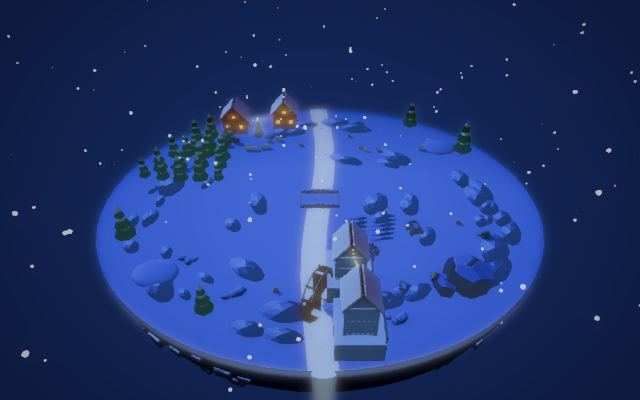
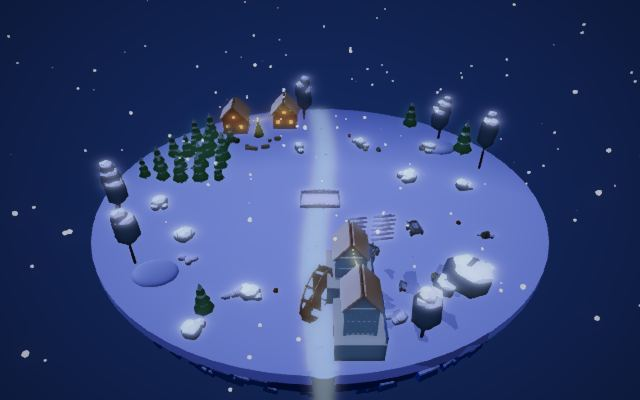
loop(573): maps_1+maps_2 9/10 gaps approved
Farmer Snow done (CONFIRM passed a); maps_1 closed (regression 12/12, 17 stages re-judged PASS).

diff --git a/loop/STATE.md b/loop/STATE.md
@@ -1,5 +1,5 @@
 # Loop state (v10: maps then stages; two batch audits merged; up to 9 structural/rebuild gaps + 1 eligible polish; fresh CONFIRM before done)
-Iteration: 572   Batch: maps_1+maps_2   Consecutive empty: 0   Done: 6/99   Parked: 0
+Iteration: 573   Batch: maps_2   Consecutive empty: 0   Done: 7/99   Parked: 0
 Batches, in order: maps_1, maps_2, maps_3, maps_4, stages_introduction, stages_adventure, stages_challenge, stages_dynasty, stages_renaissance, stages_pirate, stages_spooky, stages_simulation, stages_wild_west, stages_legacy, stages_fantasy_good, stages_fantasy_evil
 <!-- Item file template, loop/items/<id>.md (map: map.<id>; stage: <campaign>.<level>):
 # <id>
@@ -16,8 +16,8 @@ c ...
 Marks below: one per criterion a b c (+ pass, - fail, ? unscored); map a look, b layout, c play; stage a army, b formation, c battle. -->
 
 ## Scoreboard (a b c as + pass, - fail, ? unscored; status q queued, o open, D done, p parked)
-maps_1: tribal_1 +++ D | tribal_2 +++ D | tribal_sandbox +++ D | farmer_1 +++ D | farmer_2 +++ D | farmer_snow -++ o
-maps_2: medieval_1 +++ D | medieval_2 -++ o | ancient_1 --+ o | ancient_2 --+ o | ancient_sandbox +-+ o | viking --+ o | viking_sandbox -++ o
+maps_1: tribal_1 +++ D | tribal_2 +++ D | tribal_sandbox +++ D | farmer_1 +++ D | farmer_2 +++ D | farmer_snow +++ D
+maps_2: medieval_1 +++ D | medieval_2 -++ o | ancient_1 --+ o | ancient_2 +-+ o | ancient_sandbox -++ o | viking +-+ o | viking_sandbox -++ o
 maps_3: dynasty ??? q | renaissance ??? q | pirate ??? q | spooky_1 ??? q | spooky_2 ??? q | wild_west ??? q | legacy ??? q
 maps_4: fantasy_good ??? q | fantasy_evil ??? q | simulation ??? q | bridge ??? q | hill ??? q | corridor ??? q | defend_the_castle ??? q | high_ground ??? q | low_ground ??? q
 stages_introduction: clubs ??? q | army ??? q | hay_and_pitchforks ??? q | basic_formation ??? q | ice_archers_only_almost ??? q | longships ??? q
@@ -33,54 +33,52 @@ stages_legacy: siege ??? q | a_tank ??? q | the_war ??? q | thor_s_battle ??? q
 stages_fantasy_good: colossal_spike ??? q | royal_archers ??? q | clash_of_warriors ??? q | chaotic_cavalry ??? q | vicious_terror ??? q | fortified_formation ??? q
 stages_fantasy_evil: encircling_tribe ??? q | raze_the_homestead ??? q | farmer_uprising_evil ??? q | storm_the_fortress ??? q | blasted_skirmish ??? q | dismantle_the_spears ??? q
 
-## Focus (iter 572: maps_1+maps_2, 9 [S] + 1 [R]; BASE cf80e6fe)
-- [R] map.farmer_snow.a blockers 1 and 3 rock caps and mill-bank shade (2cf0d365) APPROVE, struck a1, a3 (a PASS; CONFIRM failed a)
-- [S] map.medieval_2.a blocker 3 multi-depth castle-foot oaks (afbebfe0) APPROVE, struck a3 (a PASS; CONFIRM failed a, passed b)
-- [S] map.viking_sandbox.a blocker 3 grounded ledge caps (17023fc0) APPROVE, struck a3 (a PASS; CONFIRM failed a)
-- [S] map.ancient_1.a blocker 6 lighthouse (b49c9e06) APPROVE, struck a6
-- [S] map.ancient_1.b blocker 2 two streets (86b2096b) APPROVE, struck b2 (b PASS; CONFIRM failed b)
-- [S] map.ancient_1.a blocker 4 pebbled brown underside (650af264) APPROVE, struck a4 (a PASS; CONFIRM failed a)
-- [S] map.ancient_2.a blocker 3 beige ring wall (ed751363) APPROVE, struck a3
-- [S] map.ancient_sandbox.b blocker 3 spiral mountain (72b505d7) APPROVE, struck b3 and a3
-- [S] map.viking.a blocker 3 cyan haze and snowfall (30beeb4b+b35b008f) APPROVE, struck a3
-- [S] map.ancient_sandbox.a blocker 2 hamlets and cypresses (686f2456) APPROVE, struck a2 (a PASS, pending CONFIRM)
-- 10/10, 12 struck
+## Focus (iter 573: maps_1+maps_2, 9 [S] + 1 [R]; BASE 509a4b40 after evidence 509a4b40 (ancient_1 battle pose))
+- [R] map.farmer_snow.a blockers 1-3 lavender snow, corner trees, slate band (94ecffc7+cd93dfb2) APPROVE, struck a1-a3 (a PASS; CONFIRM passed: D)
+- [S] map.viking.b blocker 2 raised snowbanks (264fb953) APPROVE, no strike
+- [S] map.viking.a blocker 5 ice underside (c44dc74a) APPROVE, struck a5
+- [S] map.viking.a blocker 6 frozen waterfall (f74d311d) APPROVE, struck a6 (a PASS; CONFIRM passed a, b)
+- [S] map.ancient_sandbox.b blocker 1 outer shelves and headlands (d11426f4) APPROVE, struck b1
+- [S] map.ancient_sandbox.b blocker 4 offshore islets (b82dd7b7) APPROVE, struck b4 (b PASS; CONFIRM passed b, failed a)
+- [S] map.ancient_2.b blocker 1 world-space remap (f5374621) dropped: shelf unchanged, reverted 8231cf32
+- [S] map.ancient_2.a blocker 4 earth drum (cc91f4d4) APPROVE, struck a4
+- [S] map.ancient_2.a blocker 5 gate pavilions (0f5ada56) APPROVE, struck a5 (a PASS, pending CONFIRM)
+- [S] map.ancient_1.a blocker 1 clear blue sky (61adfc2c) APPROVE, struck a1
+- 9/10, 10 struck
 
 ## Last verdicts (critic header lines verbatim)
-GAP: [R] map.farmer_snow (2cf0d365)
+GAP: [R] map.farmer_snow (94ecffc7 + cd93dfb2)
 VERDICT: APPROVE
 CRITERION: map.farmer_snow.a PASS   (previous: FAIL)
-GAP: [S] map.medieval_2 (afbebfe0)
+GAP: [S] map.viking (264fb953)
 VERDICT: APPROVE
-CRITERION: map.medieval_2.a PASS   (previous: FAIL)
-GAP: [S] map.viking_sandbox (17023fc0)
-VERDICT: APPROVE
-CRITERION: map.viking_sandbox.a PASS   (previous: FAIL)
-GAP: [S] map.ancient_1 (b49c9e06)
-VERDICT: APPROVE
-CRITERION: map.ancient_1.a FAIL   (previous: FAIL)
-GAP: [S] map.ancient_1 (86b2096b)
-VERDICT: APPROVE
-CRITERION: map.ancient_1.b PASS   (previous: FAIL)
-GAP: [S] map.ancient_1 (650af264)
-VERDICT: APPROVE
-CRITERION: map.ancient_1.a PASS   (previous: FAIL)
-GAP: [S] map.ancient_2 (ed751363)
-VERDICT: APPROVE
-CRITERION: map.ancient_2.a FAIL   (previous: FAIL)
-GAP: [S] map.ancient_sandbox (72b505d7)
-VERDICT: APPROVE
-CRITERION: map.ancient_sandbox.b FAIL   (previous: FAIL)
-GAP: [S] map.viking (30beeb4b+b35b008f)
+CRITERION: map.viking.b FAIL   (previous: FAIL)
+GAP: [S] map.viking (c44dc74a)
 VERDICT: APPROVE
 CRITERION: map.viking.a FAIL   (previous: FAIL)
-GAP: [S] map.ancient_sandbox (686f2456)
+GAP: [S] map.viking (f74d311d)
 VERDICT: APPROVE
-CRITERION: map.ancient_sandbox.a PASS   (previous: FAIL)
+CRITERION: map.viking.a PASS   (previous: FAIL)
+GAP: [S] map.ancient_sandbox (d11426f4)
+VERDICT: APPROVE
+CRITERION: map.ancient_sandbox.b FAIL   (previous: FAIL)
+GAP: [S] map.ancient_sandbox (b82dd7b7)
+VERDICT: APPROVE
+CRITERION: map.ancient_sandbox.b PASS   (previous: FAIL)
+GAP: [S] map.ancient_2 (cc91f4d4)
+VERDICT: APPROVE
+CRITERION: map.ancient_2.a FAIL   (previous: FAIL)
+GAP: [S] map.ancient_2 (0f5ada56)
+VERDICT: APPROVE
+CRITERION: map.ancient_2.a PASS   (previous: FAIL)
+GAP: [S] map.ancient_1 (61adfc2c)
+VERDICT: APPROVE
+CRITERION: map.ancient_1.a FAIL   (previous: FAIL)
 REGRESSIONS: none
 
 ## Notes for next iteration (max 5 lines)
-- 572 capture: 82 shots, zero page errors; all 43 script checks passed across seven maps and 18 stages. Critic approved 10/10.
-- Early CONFIRMs failed a on Farmer Snow, Medieval 2 and Viking Sandbox (their lists are now the blockers): all three are plateau. One [R] per iteration, oldest first: Farmer Snow, then Viking Sandbox, then Medieval 2.
-- Ancient 1 CONFIRM 572 failed a and b (6 + 5 blockers). Evidence first: its battle camera now sits over the middle band roofs (b3); re-aim that pose onto a street or plaza before picking on b.
-- Ancient Sandbox a PASS awaits CONFIRM; its b needs the larger irregular outline and islets. The pale rectangle in stage_fantasy_evil.raze_the_homestead_field.png remains an open note from 562.
+- 573: 82+ shots, zero page errors, all script checks pass; maps_1 checkpoint: regression 12/12 GREEN, all 17 maps_1 stages re-judged a+c PASS. Farmer Snow done (CONFIRM passed a); maps_1 closed.
+- [R] queue (plateau, oldest first): Viking Sandbox a, then Medieval 2 a. Viking b needs its bank to read from the top shot (shaded face, shore rocks).
+- Ancient 2: find which mesh is the green apron past the wall with a probe before retrying b1 (the 573 world-space remap of ground/islandShelf changed nothing). Its a PASS awaits CONFIRM.
+- Ancient 1 evidence first: the battle shot (509a4b40) looks down the south street but misses the skirmish armies (zones x +-40): re-aim it onto an army on a street before picking on b.
+- Ancient Sandbox CONFIRM 573 failed a (beige sky, lawn too saturated, front boulder row, cloud over island, sea too saturated): that list is now a's blockers.

diff --git a/loop/LEDGER.md b/loop/LEDGER.md
@@ -3,15 +3,6 @@
 Rows: `file:identifier | value | last iter | verdict | earlier values`. P: no approved reversal within 20 iterations; two failed polish attempts spend a row. S/R replace mechanisms. The unit phase's ledger is `loop/archive/v4/LEDGER.md`.
 
 ## Structural attempts (iter | sha | item.criterion | verdict)
-567 | db48feef | map.tribal_sandbox.b | approved
-567 | 03d00d50 | map.tribal_sandbox.a | approved
-567 | 96d8ba1d | map.tribal_sandbox.a | approved
-567 | d32c689e+cd4783d7 | map.farmer_snow.a | approved
-567 | 0a2b80e6+254e73fa | map.medieval_1.a | approved
-567 | 81b97c93 | map.ancient_1.a | approved
-567 | e2665129 | map.viking_sandbox.a | approved
-567 | 98b4b52f | map.ancient_2.b | approved
-567 | b64c0a48 | map.medieval_2.a | approved
 568 | 45084eee | map.tribal_sandbox.a | approved, struck a1
 568 | ee8ea992 | map.tribal_sandbox.a | approved, struck a2
 568 | d8ff6642 | map.tribal_sandbox.a | approved, struck a3
@@ -60,6 +51,16 @@ Rows: `file:identifier | value | last iter | verdict | earlier values`. P: no ap
 572 | 72b505d7 | map.ancient_sandbox.b | approve, struck b3 and a3
 572 | 30beeb4b+b35b008f | map.viking.a | approve, struck a3
 572 | 686f2456 | map.ancient_sandbox.a | approve, struck a2
+573 | 94ecffc7+cd93dfb2 [R] | map.farmer_snow.a | approve, struck a1-a3 (CONFIRM passed: D)
+573 | 264fb953 | map.viking.b | approve, no strike
+573 | c44dc74a | map.viking.a | approve, struck a5
+573 | f74d311d | map.viking.a | approve, struck a6 (CONFIRM passed a)
+573 | d11426f4 | map.ancient_sandbox.b | approve, struck b1
+573 | b82dd7b7 | map.ancient_sandbox.b | approve, struck b4 (CONFIRM passed b, failed a)
+573 | f5374621 | map.ancient_2.b | dropped (no visible change; reverted)
+573 | cc91f4d4 | map.ancient_2.a | approve, struck a4
+573 | 0f5ada56 | map.ancient_2.a | approve, struck a5
+573 | 61adfc2c | map.ancient_1.a | approve, struck a1
 
 ## Tuned values
 web/src/map/tabs/farmer_2.ts:wheatField stalk height, step | 0.65-0.8 m, 0.75 m | 564 | approved | 0.5-0.7 m, 0.9 m; 1.0-1.3 m
@@ -103,7 +104,7 @@ web/src/map/tabs/medieval_2.ts:castleFront silhouette | stepped curtain runs bet
 web/src/map/tabs/medieval_2.ts:castleOaks groves | 17 oaks with scale 0.7-1.5, 3-7 lobes, wall-foot band z 17-21 | 571 | approved, blocker 3 stands | 11 equal 4-lobe oaks
 web/src/map/tabs/medieval_1.ts:rightBankBreak | west ring retained, only outer corner groups remain on east | 569 | approved | tree ring on both banks
 web/src/map/tabs/medieval_1.ts:gnarledOaks profile | kinked tapering trunks with four irregular crown lobes | 569 | approved | inherited trunks and crowns
-web/src/map/tabs/farmer_snow.ts:SNOW and SNOW_SHADE | (0.57,0.68,0.96) and (0.035,0.065,0.17) | 570 | approved, caps still dim | (0.8,0.85,0.96) and (0.3,0.34,0.45)
+web/src/map/tabs/farmer_snow.ts:SNOW and SNOW_SHADE (R) | warm diffuse (0.72,0.66,0.58), self-light (0.23,0.26,0.47), field+lip out of glow; band (0.085,0.115,0.29), 150 stones; 6 corner trees | 573 | approved, D | (0.57,0.68,0.96)/(0.035,0.065,0.17) cobalt; (0.8,0.85,0.96)/(0.3,0.34,0.45)
 web/src/map/tabs/farmer_snow.ts:nightSky hemi and dir | intensities 0.22 and 0.78, diagonal directional light (0.62,-0.55,-0.48) | 570 | approved, localized shadows still too narrow | 0.35 and 0.55, inherited direction
 web/src/map/tabs/medieval_1.ts:landfallRamp | 3.25 m wide, (-7.4,-0.18,-18) to (-1.9,-5.8,-4) | 570 | approved | absent
 web/src/map/tabs/medieval_1.ts:meadowDressing | flattened ico clumps 1.1-2 m, two greens (0.5,0.74,0.22)/(0.33,0.56,0.16), 0.8 m grid in swathes, orange heads | 571 | approved, a PASS | two crossed leaf cards per tuft, 0.95 m grid; flat grass
@@ -126,4 +127,8 @@ web/src/map/tabs/viking.ts:winterHaze | clear (0.58,0.86,0.91), 320 flakes, mist
 web/src/map/tabs/ancient_1.ts:BANDS and STREETS | three bands x -24..24 (z -19/0/19, depth 14/16/14), streets z +-10 4 m wide | 572 | approved (CONFIRM failed b: reads as fused slab) | 2x3 blocks at x +-15
 web/src/map/tabs/ancient_1.ts:lighthouse and pebbledUnderside | 14 m octagonal tower at (-42,46); two slabs 7 m + 6 m inset, pebbles every 3.5 m | 572 | approved | absent; 11 m box slab
 web/src/map/tabs/ancient_2.ts:ringWall | 72 segments r 49.6, 1.5 m high, beige (0.78,0.68,0.5), 6 cypress clusters; ring trees removed | 572 | approved, struck a3 | autumn tree ring
+web/src/map/tabs/viking.ts:BANK, UNDER, FALL | bank 2.4 m smoothstep over 5 m past lake edge (height field); ice bowl to -26 m; crag+cascade at (0,44) | 573 | approved; bank unseen from top | absent
+web/src/map/tabs/ancient_sandbox.ts:SHELVES and ISLETS | 10 lobes 9-25 m out, tops -2.5..-7; 5 islets 75-150 m out | 573 | approved, b PASS | absent
+web/src/map/tabs/ancient_2.ts:earthDrum and PAVILIONS | drum r 51 to -17 m, 110 stones; pavilions at 188/250/320 deg | 573 | approved, a PASS | navy slab; absent
+web/src/map/tabs/ancient_1.ts:clearSky | clear (0.3,0.6,0.88), fog (0.66,0.8,0.93) | 573 | approved | inherited beige
 web/src/map/tabs/ancient_sandbox.ts:spiralMountain and edgeVillage | 32 m tower at (0,41) r 9-4.5, 2.5-turn ledge; 5 hamlets, 8 rim cypress clusters, ring trees removed | 572 | approved, struck a2, a3, b3 | absent; autumn ring

diff --git a/loop/items/map.ancient_1.md b/loop/items/map.ancient_1.md
@@ -1,19 +1,20 @@
 # map.ancient_1
 Status: open   Audited: 562 (AUDIT x2), 572 (CONFIRM: passed none; failed a, b)   Done: -
 ## Verdicts
-a FAIL (0 since 572): 1. beige-khaki sky and haze in map_ancient_1_island — TABS: pale clear blue sky with white clouds (ref: reference/maps/greek_ancient_1.png) 2. pale lavender-blue tinted street ground in map_ancient_1_top — TABS: mid-grey paving split by white flagstone lines (ref: reference/maps/wiki/ancient_1.png) 3. town drawn as one fused white slab with domes on top in map_ancient_1_top — TABS: separate whitewashed houses with flat roofs, stairs and blue doors/shutters (ref: reference/maps/wiki/ancient_1.png) 4. thin blue rail edging the field in map_ancient_1_island — TABS: low white parapet wall with blue tile coping (ref: reference/maps/wiki/ancient_1.png) 5. lone grass tufts at the field corners in map_ancient_1_top — TABS: cypress clusters in raised white planters along the wall (ref: reference/maps/wiki/ancient_1.png) 6. bare streets and rooftops in map_ancient_1_ground — TABS: pots, barrels, pink-blossom and olive shrubs dressing roofs and lanes (ref: reference/maps/wiki/ancient_1.png)
+a FAIL (573: struck 1): 2. pale lavender-blue tinted street ground in map_ancient_1_top — TABS: mid-grey paving split by white flagstone lines (ref: reference/maps/wiki/ancient_1.png) 3. town drawn as one fused white slab with domes on top in map_ancient_1_top — TABS: separate whitewashed houses with flat roofs, stairs and blue doors/shutters (ref: reference/maps/wiki/ancient_1.png) 4. thin blue rail edging the field in map_ancient_1_island — TABS: low white parapet wall with blue tile coping (ref: reference/maps/wiki/ancient_1.png) 5. lone grass tufts at the field corners in map_ancient_1_top — TABS: cypress clusters in raised white planters along the wall (ref: reference/maps/wiki/ancient_1.png) 6. bare streets and rooftops in map_ancient_1_ground — TABS: pots, barrels, pink-blossom and olive shrubs dressing roofs and lanes (ref: reference/maps/wiki/ancient_1.png)
 b FAIL (0 since 572): 1. building block confined to the centre third with wide empty plazas on both ends in map_ancient_1_top — TABS: houses fill the length of the rectangle in long rows (ref: reference/maps/wiki/ancient_1.png) 2. no narrow lengthwise streets between the building rows in map_ancient_1_top — TABS: two 3-4-unit-wide streets link the left and right halves (ref: loop/cards/maps/ancient_1.md Overview) 3. low camera sees only rooftops, no street to fight on, in map_ancient_1_battle — TABS: armies stand on grey paved streets between house fronts (ref: reference/stages/dynasty.zeus_and_other_folks.png) 4. harbour water only a small pond on a detached rock slab behind the field in map_ancient_1_top — TABS: blue bay cutting into one corner of the island beside the statue headland (ref: reference/maps/wiki/ancient_1.png) 5. rooftop stairs barely visible as one thin ladder in map_ancient_1_top — TABS: broad stair flights up the building sides onto the roofs (ref: reference/stages/introduction.basic_formation.png)
-c PASS (572 judge)
+c PASS (573 judge)
 
 ## Ranked gaps
-1. [S] a — sky — blocker 1: clear pale blue sky and fog, clouds kept — ref: reference/maps/greek_ancient_1.png — ours: map_ancient_1_island.png
-2. [S] b — houses fill the length — blocker 1: bands toward the side walls, zones (x >= 29) clear — ref: reference/maps/wiki/ancient_1.png — ours: map_ancient_1_top.png
+1. [S] a — fused town slab — blocker 3: separate whitewashed houses with gaps, flat roofs, blue doors and shutters, stair flights — ref: reference/maps/wiki/ancient_1.png — ours: map_ancient_1_top.png
+2. [S] b — houses fill the length — blocker 1: house rows run the full length, zones (x >= 29) clear — ref: reference/maps/wiki/ancient_1.png — ours: map_ancient_1_top.png
+3. [S] a — paving — blocker 2: mid-grey paving, white flagstone lines — ours: map_ancient_1_top.png
 
 ## Attempts (iter | gap | criterion | verdict)
-566-571 | [S] slab, streets, arch, domed houses, wall, planters, bay, statue | a, b | 5 APPROVE
-572 | [S] lighthouse (b49c9e06); streets (86b2096b); pebbled underside (650af264) | a, b | 3 APPROVE struck a6, b2, a4; CONFIRM failed a, b
+566-572 | [S] slab, streets, houses, wall, planters, bay, statue, lighthouse, underside | a, b | 8 APPROVE; CONFIRM 572 failed a, b
+573 | [S] clear blue sky and haze (61adfc2c) | a | APPROVE, struck a1
 ## Rejected (last 4)
 
 ## Notes (max 3 lines)
 - Stages: introduction.basic_formation, adventure.final_destination_wheelbarrow, dynasty.zeus_and_other_folks, fantasy_evil.blasted_skirmish (enemies x >= 29).
-- Evidence first: the battle camera sits over middle-band roofs since 572 (b3): re-aim it onto a street or plaza.
+- Evidence 573: battle shot looks down the south street but misses the armies (zones x +-40, z 0); b3 stands. Re-aim onto an army.

diff --git a/loop/items/map.ancient_sandbox.md b/loop/items/map.ancient_sandbox.md
@@ -1,25 +1,23 @@
 # map.ancient_sandbox
-Status: open   Audited: 562 (AUDIT x2)   Done: -
+Status: open   Audited: 562 (AUDIT x2), 573 (CONFIRM: passed b; failed a)   Done: -
 ## Verdicts
-a PASS (572: struck 2, 3; pending CONFIRM)
-b FAIL (572: struck 3): 1. Island outline in map_ancient_sandbox_top is a small rounded rectangle — TABS: very large irregular island with cliff terraces (ref: reference/maps/greek_ancient_sandbox.png) 4. Offshore islets absent in map_ancient_sandbox_island — TABS: small islands in the distance (ref: card Overview)
-c PASS (572 judge)
+a FAIL (0 since 573; CONFIRM failed 1x): 1. beige-khaki overcast sky filling the top of map_ancient_sandbox_ground.png — TABS: bright mid-blue sky with white puffy clouds (ref: reference/maps/greek_ancient_sandbox.png) 2. saturated mid-green lawn across map_ancient_sandbox_ground.png — TABS: yellow-olive green grass (ref: reference/maps/wiki/ancient_sandbox.png) 3. row of dark brown boulders lining the front edge of the field in map_ancient_sandbox_island.png — TABS: the front edge is open grass with pale sandstone rocks, ruins and steps (ref: reference/maps/greek_ancient_sandbox.png) 4. large white cloud mass covering the lower right of the island in map_ancient_sandbox_island.png — TABS: clouds stay in the sky and the island and its cliffs are unobstructed (ref: reference/maps/greek_ancient_sandbox.png) 5. flat saturated royal-blue sea with an orange glowing islet on the horizon in map_ancient_sandbox_ground.png — TABS: pale hazy blue-grey sea fading into mist, with muted distant islets (ref: reference/maps/greek_ancient_sandbox.png)
+b PASS (573: struck 1, 4; CONFIRM 573)
+c PASS (573 judge)
 
 ## Ranked gaps
-1. [S] b — outline — blocker 1: very large irregular island outline with stepped cliff terraces at the edges — ref: reference/maps/greek_ancient_sandbox.png — ours: map_ancient_sandbox_top.png
-2. [S] b — islets — blocker 4: small offshore rock islets with cypresses in the sea around the island — ref: loop/cards/maps/ancient_sandbox.md (Overview) — ours: map_ancient_sandbox_island.png
+1. [S] a — sky — blocker 1: clear mid-blue sky and pale haze (as ancient_1's clearSky) — ref: reference/maps/greek_ancient_sandbox.png — ours: map_ancient_sandbox_ground.png
+2. [S] a — front boulder row — blocker 3: inherited dark boulder chain on the front rim replaced by pale sandstone rocks and steps — ref: reference/maps/greek_ancient_sandbox.png — ours: map_ancient_sandbox_island.png
+3. [S] a — sea and islets — blocker 5: hazy blue-grey sea fading to mist, islets darker with green tops — ref: reference/maps/greek_ancient_sandbox.png — ours: map_ancient_sandbox_ground.png
 
 ## Attempts (iter | gap | criterion | verdict)
-563-565 | [S] own builder: terracotta cliffs, sea, base junk and field dressing removed | a, b | 4 APPROVE struck a4, a5, b5
-566 | [S] green meadow with brown clay paths (9358dcce) | a1 | APPROVE struck a1
-570 | [S] stepped rear temple hills (c8566daa) | b | APPROVE, struck b2
-571 | [S] broken columns, fallen drums, ruined gateways (8699ce12) | a | APPROVE, struck a6
-572 | [S] spiral mountain on the north centreline (72b505d7) | b | APPROVE, struck b3 and a3
-572 | [S] whitewashed hamlets, blue-tiled walls, cypresses replacing the autumn ring (686f2456) | a | APPROVE, struck a2 (a PASS)
+563-566 | [S] own builder: terracotta cliffs, sea, junk removed, meadow, clay paths | a, b | 5 APPROVE struck a1, a4, a5, b5
+570-572 | [S] temple hills, ruins, spiral mountain, hamlets and cypresses | a, b | 4 APPROVE struck a2, a3, a6, b2, b3
+573 | [S] outer green shelves and headlands (d11426f4); offshore islets (b82dd7b7) | b | 2 APPROVE, struck b1, b4 (b PASS); CONFIRM passed b, failed a
 
 ## Rejected (last 4)
 
 ## Notes (max 3 lines)
 - No stages fought on it. Base is campaign.challenge (shared): dress it in tabs/ancient_sandbox.ts only.
-- Critic 572: a dark brown boulder row along the whole front rim (inherited; TABS pale rocks); houses bare cubes; spiral tower too smooth.
-- Critic 571: ruin pieces slender (TABS chunky on open grass). Critic 564: beige sky jars over the blue sea.
+- Critic 573: islets bright orange pots with little green; field inside still a rounded rectangle with an orange rim line.
+- Critic 572: houses bare cubes; spiral tower too smooth. Critic 571: ruin pieces slender.

diff --git a/loop/items/map.ancient_2.md b/loop/items/map.ancient_2.md
@@ -1,25 +1,24 @@
 # map.ancient_2
 Status: open   Audited: 562 (AUDIT x2)   Done: -
 ## Verdicts
-a FAIL (572: struck 3): 4. Island underside in map_ancient_2_island is a navy slab with stalactites — TABS: round brown earth drum set with grey stones (ref: reference/maps/greek_ancient_2.png) 5. Small beige gate pavilions with cypresses at the wall absent in map_ancient_2_top — TABS: pavilions at left, front and right (ref: reference/maps/wiki/ancient_2.png)
+a PASS (573: struck 4, 5; pending CONFIRM)
 b FAIL (567: struck 3): 1. Island outline in map_ancient_2_top is a rounded rectangle — TABS: circular disc (ref: reference/maps/wiki/ancient_2.png) 4. Front gate pavilion on the centre line absent in map_ancient_2_island — TABS: columned gate at the front wall (ref: reference/maps/greek_ancient_2.png)
-c PASS (572 judge)
+c PASS (573 judge)
 
 ## Ranked gaps
-1. [S] a — underside — blocker 4: round brown earth drum set with grey stones (as ancient_1's pebbledUnderside) replacing the navy slab and stalactites — ref: reference/maps/greek_ancient_2.png — ours: map_ancient_2_island.png
-2. [S] a — gate pavilions — blocker 5: three small beige columned pavilions with cypresses set into the ring wall at left, front and right — ref: reference/maps/wiki/ancient_2.png — ours: map_ancient_2_top.png
-3. [S] b — outline — blocker 1: trim the island top and slab to the 51 m circle so the wall stands on the edge and no green shelf projects — ref: reference/maps/wiki/ancient_2.png — ours: map_ancient_2_top.png
+1. [S] b — green apron past the wall — blocker 1: grass top and slabs trimmed to the 51 m wall circle (find the mesh that projects first; the 573 world-space remap of ground/islandShelf changed nothing) — ref: reference/maps/wiki/ancient_2.png — ours: map_ancient_2_top.png
+2. [S] b — open front gate — blocker 4: open columned propylon at the 250-degree path end, the path running through it — ref: reference/maps/greek_ancient_2.png — ours: map_ancient_2_island.png
 
 ## Attempts (iter | gap | criterion | verdict)
-565 | [S] own builder; terraces, temples, stair, statues (b364ac2a) | a2 | APPROVE struck a2, b2
-566 | [S] clear inherited field obstacles and pits (13fa8e2a) | b5 | APPROVE struck b5
-567 | [S] crossing beige field paths (98b4b52f) | b3 | APPROVE struck b3
+565-567 | [S] own builder, temples, stair, statues; field cleared; crossing paths | a, b | 3 APPROVE struck a2, b2, b3, b5
 570 | [S] circular temple island outline (18a7b03b) | b | APPROVE
 571 | [S] green lawn with clumps and pink-violet flower drifts (b70ca30a) | a | APPROVE, struck a1
 572 | [S] low beige plastered ring wall with cypress clusters (ed751363) | a | APPROVE, struck a3
+573 | [S] world-space remap of the top onto the 51 m circle (f5374621) | b | dropped (shelf unchanged in the shots; reverted 8231cf32)
+573 | [S] brown earth drum with grey stones (cc91f4d4); gate pavilions at the path ends (0f5ada56) | a | 2 APPROVE, struck a4, a5 (a PASS)
 
 ## Rejected (last 4)
 
 ## Notes (max 3 lines)
 - Stages on it: challenge.zeus, renaissance.renaissance_vs_ancient_2 (team 1 at x 29..37, |z| <= 18; the complex starts at z 24).
-- Critic 572: green shelf runs on outside the wall (b1); wall plain, TABS has darker panel inlays. Critic 571: lawn paler lime than TABS olive.
+- Critic 573: front gate a solid gabled box the path stops at. Critic 572: wall plain, TABS has darker panel inlays. Critic 571: lawn paler lime than TABS olive.

diff --git a/loop/items/map.viking.md b/loop/items/map.viking.md
@@ -1,14 +1,13 @@
 # map.viking
-Status: open   Audited: 562 (AUDIT x2)   Done: -
+Status: open   Audited: 562 (AUDIT x2), 573 (CONFIRM: passed a, b)   Done: -
 ## Verdicts
-a FAIL (572: struck 3): 5. Island underside in map_viking_island is a navy slab with stalactites — TABS: icy white-blue rounded underside (ref: reference/maps/winter_viking.png) 6. Frozen waterfall absent in map_viking_island — TABS: waterfall at the top of the map (ref: card Overview)
+a PASS (573: struck 5, 6; CONFIRM 573)
 b FAIL (571: struck 3): 2. Snowbanks with pine forest on the sides absent in map_viking_top — TABS: raised snowy shore with pines (ref: reference/stages/introduction.ice_archers_only_almost.png)
-c PASS (572 judge)
+c PASS (573 judge)
 
 ## Ranked gaps
-1. [S] a — underside — blocker 5: icy white-blue rounded underside replacing the navy slab and stalactites — ref: reference/maps/winter_viking.png — ours: map_viking_island.png
-2. [S] a — frozen waterfall — blocker 6: frozen waterfall set piece spilling over the back rim at the top of the map — ref: loop/cards/maps/viking.md (Overview) — ours: map_viking_island.png
-3. [S] b — raised snowbanks — blocker 2: raised snowy shore banks carrying the pines along both sides of the lake — ref: reference/stages/introduction.ice_archers_only_almost.png — ours: map_viking_top.png
+1. [S] b — bank reads from above — blocker 2: a shaded grey-blue bank face with snow-capped grey rocks along its foot at the lake shore (snowbankSheet) — ref: reference/maps/wiki/viking.png — ours: map_viking_top.png
+2. [P] b — bank height — blocker 2: BANK.top 2.4 to 4.5 m (fallout of 264fb953), shows in map_viking_top.png — ref: reference/stages/introduction.ice_archers_only_almost.png — ours: map_viking_top.png
 
 ## Attempts (iter | gap | criterion | verdict)
 565 | [S] own builder; ice lake with crack network, snow banks (4d8db327) | a1 | APPROVE struck a1, b1
@@ -16,9 +15,11 @@ c PASS (572 judge)
 570 | [S] layered snow pines (23af4ed0) | a | APPROVE, struck a2
 571 | [S] wooden ship locked in the ice by the left shore (d5caaf8b) | b | APPROVE, struck b3 and a4
 572 | [S] cyan blizzard sky, flakes, drawn mist walls (30beeb4b+b35b008f) | a | APPROVE, struck a3
+573 | [S] raised snowbanks under the pines, drawn height (264fb953) | b | APPROVE, no strike (white on white, unshaded)
+573 | [S] faceted white-blue ice underside (c44dc74a); frozen waterfall crag at the back (f74d311d) | a | 2 APPROVE, struck a5, a6 (a PASS); CONFIRM passed a, b
 
 ## Rejected (last 4)
 
 ## Notes (max 3 lines)
-- Stages on it (8): introduction.ice_archers_only_almost, introduction.longships, challenge.ice_archer_and_friends, challenge.big_brawl, dynasty.viking_army, spooky.breakout, fantasy_good.clash_of_warriors, fantasy_evil.dismantle_the_spears.
-- Critic 572: sky dull grey-teal (TABS near-white whiteout); mist walls' top edge a hard line in the island shot. Critic 571: ship small, half hidden.
+- Stages on it (8): introduction.ice_archers_only_almost, introduction.longships, challenge.ice_archer_and_friends, challenge.big_brawl, dynasty.viking_army, spooky.breakout, fantasy_good.clash_of_warriors, fantasy_evil.dismantle_the_spears (all enemies x 29..40, |z| <= 18, inside the lake).
+- Critic 573: cascade glows near white (iceMat self-light 0.5 -> 0.3); underside sides drum-like. Critic 572: sky dull grey-teal; mist top edge hard.

diff --git a/loop/items/map.farmer_snow.md b/loop/items/map.farmer_snow.md
@@ -1,21 +1,20 @@
 # map.farmer_snow
-Status: open   Audited: 555 (AUDIT x2), 563 (CONFIRM: passed none; failed a, b), 569 (CONFIRM: passed b; failed a), 572 (CONFIRM: passed b; failed a)   Done: -
+Status: done   Audited: 555 (AUDIT x2), 563 (CONFIRM: passed none; failed a, b), 569 (CONFIRM: passed b; failed a), 572 (CONFIRM: passed b; failed a), 573 (CONFIRM: passed a; b confirmed)   Done: 573
 ## Verdicts
-a FAIL (0 since 572; plateau, CONFIRM failed 3x): 1. snow ground colour in map_farmer_snow_island.png and map_farmer_snow_top.png: the whole field is a saturated cobalt blue that reads as water or paint — TABS: pale lavender-white snow lit blue by the night, with the field clearly lighter than the sky (ref: reference/maps/wiki/farmer_snow.png) 2. tall snow-laden broadleaf trees at the island corners, missing from map_farmer_snow_island.png — TABS: tall faceted lollipop trees with snow caps stand behind the mill, behind the houses and on the right rim, next to the pine grove (ref: reference/maps/wiki/farmer_snow.png) 3. island side band in map_farmer_snow_island.png: a near-black skirt with a few blue chips — TABS: a slate-blue rock band studded with snow-dusted stones under a thick white snow lip (ref: reference/maps/farm_snow.png)
+a PASS (573: struck 1, 2, 3; CONFIRM 573)
 b PASS (569: CONFIRM; 572 CONFIRM)
-c PASS (572 judge)
+c PASS (573 judge)
 
 ## Ranked gaps
-1. [R] a — snow palette, corner trees and slate side band — blockers 1-3: rebuild the night snow look (pale lavender-white field lighter than the sky, snow-capped faceted lollipop trees at the corners, slate-blue studded side band under a white lip), specced from every CONFIRM list — ref: reference/maps/wiki/farmer_snow.png, reference/maps/farm_snow.png — ours: map_farmer_snow_island.png, map_farmer_snow_top.png
 
 ## Attempts (iter | gap | criterion | verdict)
 555-565 | river, snow, bridge, sky, grove, bowl, houses, mill, outline, lights, hills, slab | a, b | 13 APPROVE, b PASS 565
 566-569 | [S] open rim, blue mill, boulder, furrows, carts | a | 5 APPROVE struck a1-a5
 570 | [R] winter lighting and field dressing (1371524f+24937b53) | a | APPROVE, struck a2
 572 | [R] snow-capped slate rock clusters + drawn mill-bank shade (2cf0d365) | a | APPROVE, struck a1, a3 (a PASS); CONFIRM failed a
+573 | [R] pale lavender field out of the glow, corner lollipop trees, slate studded band under a proud lip (94ecffc7+cd93dfb2) | a | APPROVE, struck a1-a3; CONFIRM passed a
 
 ## Rejected (last 4)
 
 ## Notes (max 3 lines)
-- Sandbox map. Critic 572: mill shade plate reads as a stain; rock caps hide most slate from above.
-- Every CONFIRM so far (563, 569, 572) failed a on palette or dressing: the next [R] must spec the field's snow colour against the wiki shot first.
+- Sandbox map. Critic 573: band stone caps do not read at island distance; the river glow strip runs down the side under the mill.

diff --git a/loop/LESSONS.md b/loop/LESSONS.md
@@ -44,8 +44,9 @@ Read at step 1; one fact a line, merge near cap. The unit phase's rig and dress 
 - Read stage armies from the stage files, not from Notes: tribal_2's "team 1 at x <= 40" was really x <= 24.4 (563), which freed 15 m for the massif. The campaign.challenge base's placement zones reach x +-61, past the 54 m rim: a builder that walls the field clips placementZones (centre/size) inside it.
 - Upright tessellation-5/6 cylinders with flat tops read as basalt columns / a palisade from the top shot (tribal_2 massif, viking_sandbox wall, 563 critic+CONFIRM): a rock mass wants heaped faceted boulders or tilted slabs with few flat tops.
 - Stage enemy positions are validated against the map's team-1 zone, hazards and obstacles (game.checkStage): a map change can misplace a stage's army (the checkpoint re-judges every stage on a finished map batch).
-- The campaign.challenge base's remaining field dressing is "wallStone" (the dark block row), "boulder" (navy), "hayBale", "hill", "stump" and two pit hazards (campaign_hazard_box_pit overlays); 565 named them with a scratch probe (game.loadMapForCapture("map.<id>") needs the "map." prefix, else it loads sandbox.tribal). Drop the pit hazards with their overlays.
-- Base field junk is "<displayName>_box|_cyl|_totem_top" meshes (mapBuilder addBoxObstacle/addCylinderObstacle/addTotem): hiding those on the campaign.challenge base cleared the ruin and totem but the critic still saw a dark block row in the battle shot (viking/ancient_sandbox 564); list the built set's names near the spot before claiming the slabs gone.
+- campaign.challenge base dressing: "wallStone" (dark block row), "boulder", "hayBale", "hill", "stump", pit hazards (campaign_hazard_box_pit overlays) and "<displayName>_box|_cyl|_totem_top" junk. loadMapForCapture needs the "map." prefix. Name what is near a spot with a probe before claiming it gone (564, 565).
+- A mesh you think you reshaped may not be the one showing: ancient_2's world-space remap of ground/islandShelf left the green apron unchanged (573). Probe which mesh projects first.
+- Night snow under blue moonlight: warm the diffuse to cancel the light's tint, carry the pale tone in self-light, and drop the field from the glow (farmer_snow 573, CONFIRM passed).
 - Turf caps on cliff columns flicker when their top faces share a plane with the cliff or meadow. Set the cap slightly below the meadow and the shaft top inside the cap (Medieval 1, 567).
 - The sandboxed shell blocks the capture's loopback calls to Vite: run captures with local network access.
 - Bushy grass: flattened subdivision-1 IcoSpheres as thin instances on a ~0.8 m grid read as fuzzy cover; leaf cards read as beige flags (571).
